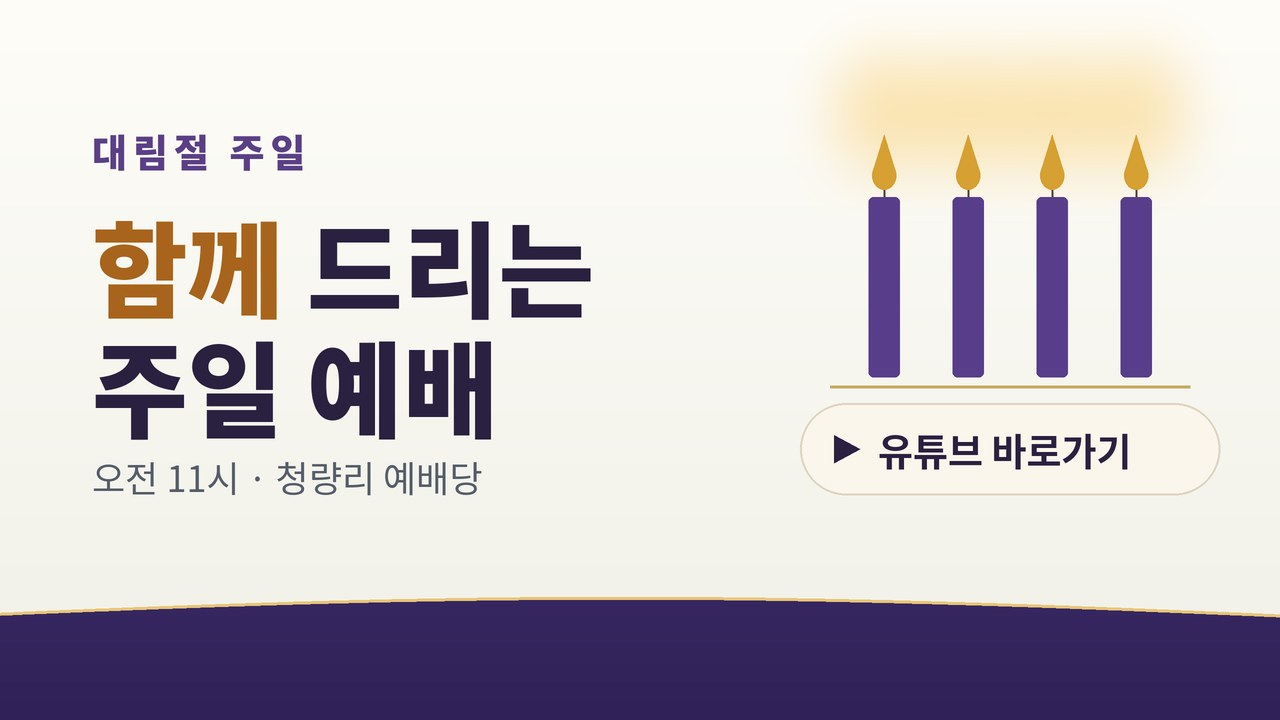
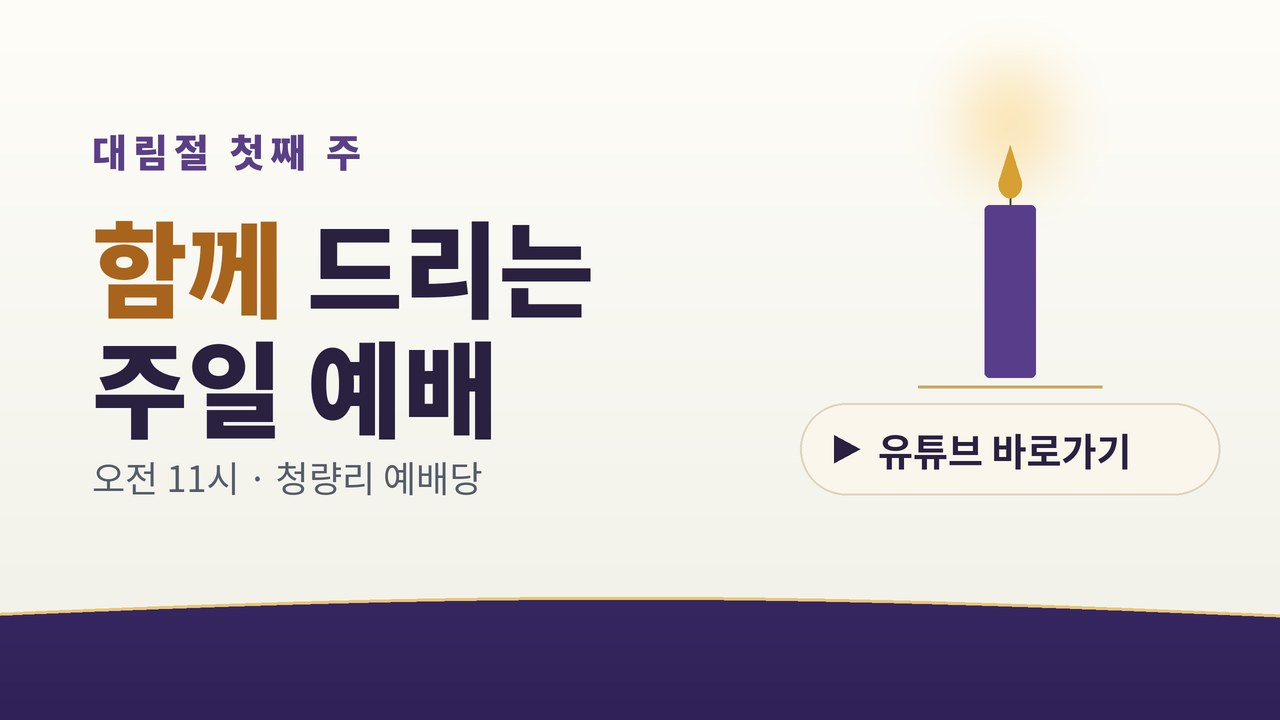
주일 배너(대림절): 첫째 주, 촛불 하나
Claude-Session: https://claude.ai/code/session_01SUQQLDh1VZ9DJkmDKHFesn

Changed region(s): [[0.625, 0.0611, 0.9375, 0.55], [0.1562, 0.1833, 0.2812, 0.2444]]

diff --git a/index.html b/index.html
@@ -721,7 +721,7 @@ function kidsBanner() {   // 어린이 채널 배너(표지 1장) → 채널로 
 const SUNDAY_LIST = 'https://www.youtube.com/playlist?list=PLXuDDjm7EXZo', DAWN_LIST = 'https://www.youtube.com/playlist?list=PLderqM7aVwPk';   // 재생목록 주소를 받으면 여기만 바꾼다
 // 주일 카드: 절기별 배너(마지막 날짜까지). 이후는 기본 배너. 미리보기는 주소 끝에 ?d=2026-12-06
 const SUNDAY_SEASON = [['2026-11-22', 'sunday-creation'], ['2026-12-23', 'sunday-advent'], ['2026-12-30', 'sunday-christmas'], ['2027-01-03', 'sunday-newyear'], ['2027-02-09', 'sunday-epiphany'], ['2027-03-27', 'sunday-lent']];
-const IMG_V = '?v=20261119m';   // 배너 이미지를 바꿀 때 이 날짜도 바꾼다(휴대폰에 남은 옛 이미지 방지)
+const IMG_V = '?v=20261124a';   // 배너 이미지를 바꿀 때 이 날짜도 바꾼다(휴대폰에 남은 옛 이미지 방지)
 function listCard(href, src, label) {   // 가로 배너 한 장 → 유튜브 재생목록
   const t = make('a', 'vthumb kbanner'); t.href = href; t.target = '_blank'; t.rel = 'noopener'; t.setAttribute('aria-label', label);
   const img = make('img'); img.src = src + IMG_V; img.alt = label; img.loading = 'lazy'; img.decoding = 'async'; t.append(img); return t;
